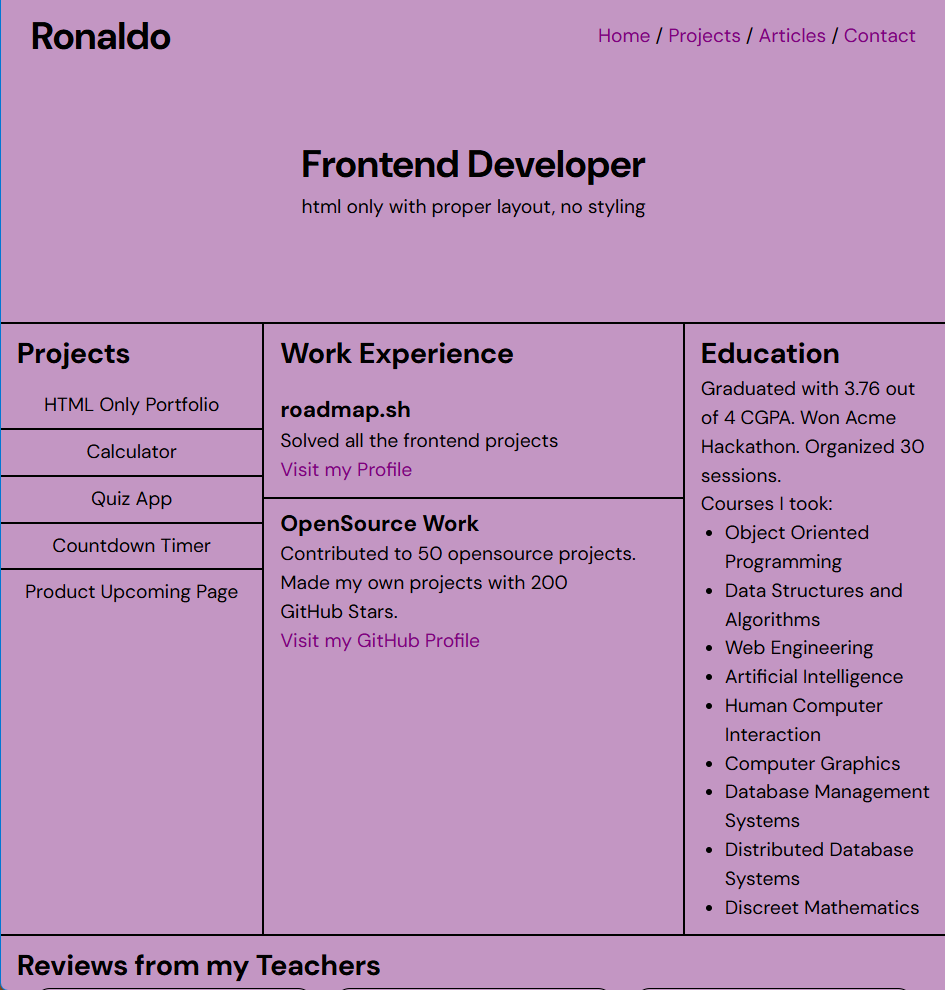
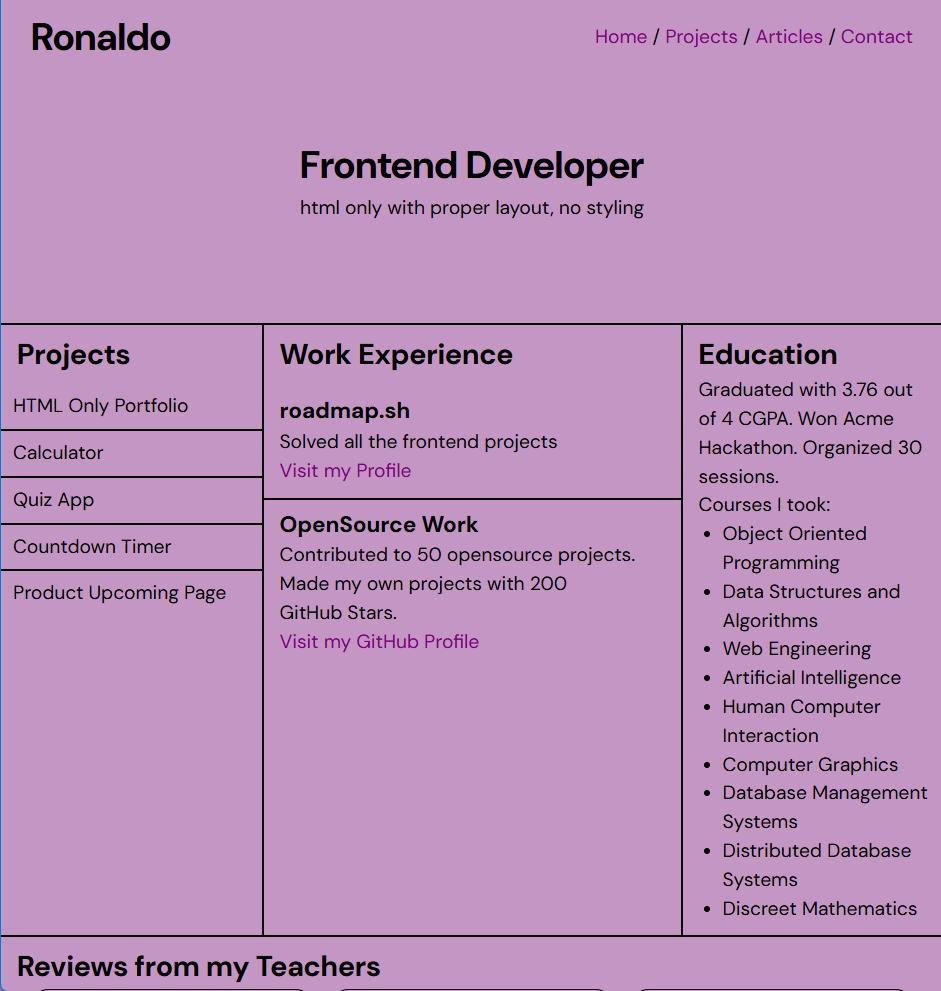
Changed responsiveness of project sidebar

diff --git a/stylesheets/styles.css b/stylesheets/styles.css
@@ -148,8 +148,6 @@ section h2 {
 }
 
 .projects .name-contain {
-    display: flex;
-    justify-content: center;
     padding: 8px 12px;
     border-bottom: 2px solid black;
 }
@@ -357,6 +355,11 @@ section h2 {
     .project-content {
         display: flex;
         align-items: center;
+    }
+
+    .projects .name-contain {
+        display: flex;
+        justify-content: center;
     }
 
     .project-list div {
